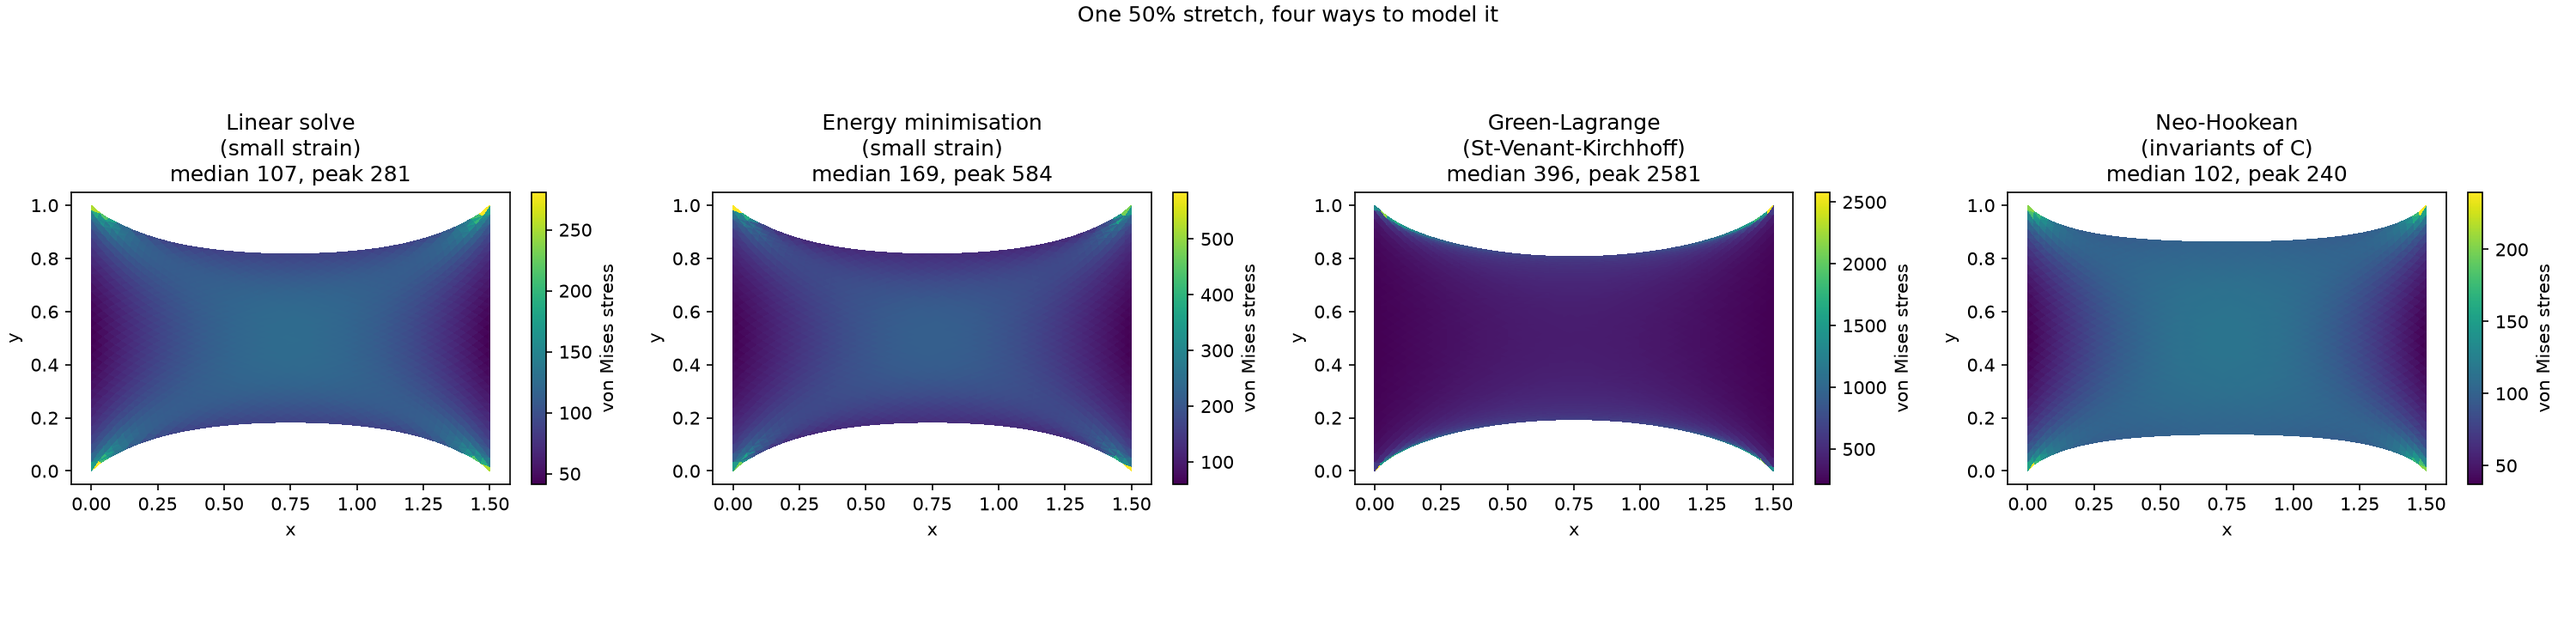
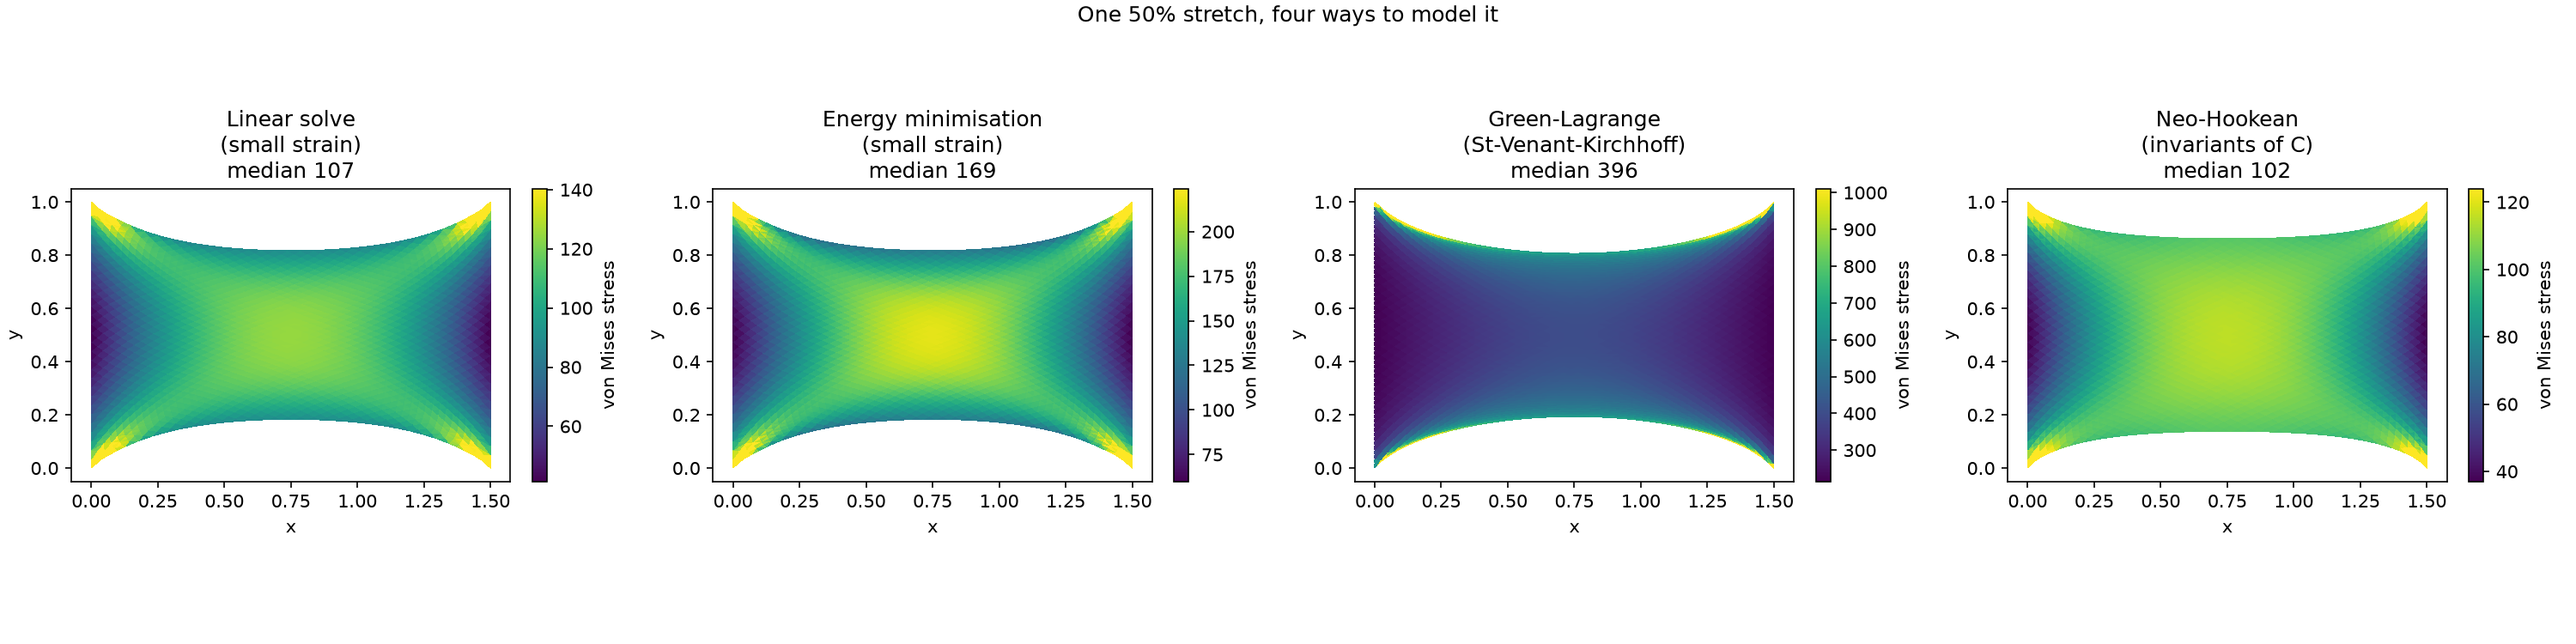
Cap the elasticity demo's colour range and explain how to read it
The clamped corners are a displacement singularity, so their stress diverges
under refinement and is not physical. Left auto-scaled, those few corner nodes
spent the whole colormap and flattened the bulk field, and the quoted peak was
a mesh artefact. Each panel now caps its colour range at the 99th percentile so
the corners saturate and the interior reads, and the title quotes the median
(mesh-stable, the comparable number) instead of the peak.

The stress figure's caption now walks the two knobs the panels turn: method
(panels 1-2, same displacement, different stress measure) versus material
(panels 2-4, St-Venant-Kirchhoff over-stiffening in tension against a stable
Neo-Hookean).

diff --git a/examples/solver_demos.py b/examples/solver_demos.py
@@ -560,8 +560,11 @@ def demo_elasticity_models(mesh, stretch=0.5):
     # invariants of C = F^T F and carries the log J terms that keep it stable in
     # compression. Both reach the same energy at small strain and part company here.
     #
-    # The stress peak sits at the clamped corners, where the imposed displacement is
-    # singular, so the median is quoted beside it.
+    # The stress diverges at the clamped corners, where the imposed displacement is
+    # singular (it grows without bound under refinement, so it is a mesh artefact, not a
+    # material fact). Each panel's colour range is therefore capped at the 99th percentile
+    # so those few corner nodes saturate rather than spending the whole colormap, and the
+    # median, not the singular peak, is quoted as the comparable number.
     w = np.max(mesh.vertices[:, 0])
     bc = BoundaryConditions(
         Dirichlet(on_plane(0, 0.0), [0, 0]),
@@ -590,21 +593,27 @@ def demo_elasticity_models(mesh, stretch=0.5):
     plotter = Plotter(1, 4, title=f'One {stretch:.0%} stretch, four ways to model it')
     for i, (name, solution) in enumerate(solutions):
         vm = solution.von_mises
+        # Cap at the 99th percentile: the singular corners saturate, the bulk field reads.
+        hi = float(np.percentile(vm, 99))
         plotter.plot(solution.deformed_mesh(), vm, mode='colored', idx=(0, i),
-                     label='von Mises stress',
-                     title=f'{name}\nmedian {np.median(vm):.0f}, peak {vm.max():.0f}')
+                     label='von Mises stress', clim=(float(np.min(vm)), hi),
+                     title=f'{name}\nmedian {np.median(vm):.0f}')
     linear_u = solutions[0][1].u
     drift = np.linalg.norm(energy_u - linear_u) / np.linalg.norm(linear_u)
     return DemoResult(
         [Figure(plotter,
-                'The first two are the same physics solved two ways, as a linear system and '
-                'by Newton on the energy that system is the stationary point of. Their '
-                'displacements are identical to machine precision (below). Their stress is '
-                'not, because the two recover different measures, sigma = D:eps against the '
-                'Cauchy stress at the deformed configuration, which agree only for small '
-                'gradients. The last two change the physics: two finite-strain laws, '
-                'Green-Lagrange and Neo-Hookean, that share the small-strain limit but '
-                'stiffen differently as the stretch grows, which small strain cannot.',
+                'Read it as two knobs. Panels 1 and 2 turn the method: the same small-strain '
+                'physics as a linear solve and as Newton on the energy it is the stationary '
+                'point of, so their displacements match to machine precision (below). Their '
+                'colour still differs because panel 1 reports the linear stress sigma = D:eps '
+                'while panel 2 reports the true Cauchy stress on the deformed shape, which '
+                'part once the stretch is large. Panels 2 to 4 hold the method and turn the '
+                'material: small strain is a rough linearisation, St-Venant-Kirchhoff has a '
+                'polynomial energy that over-stiffens sharply in tension (its median stress '
+                'runs several times the others), and Neo-Hookean carries log-J terms that '
+                'keep it physical at large strain. Colour is capped at the 99th percentile so '
+                'the singular clamped corners do not wash out the bulk; that same singularity '
+                'is why the median, not the peak, is the number to compare.',
                 'stress'),
          Figure(conditions,
                 'Both ends are Dirichlet. The left is held at zero and the right is displaced '
